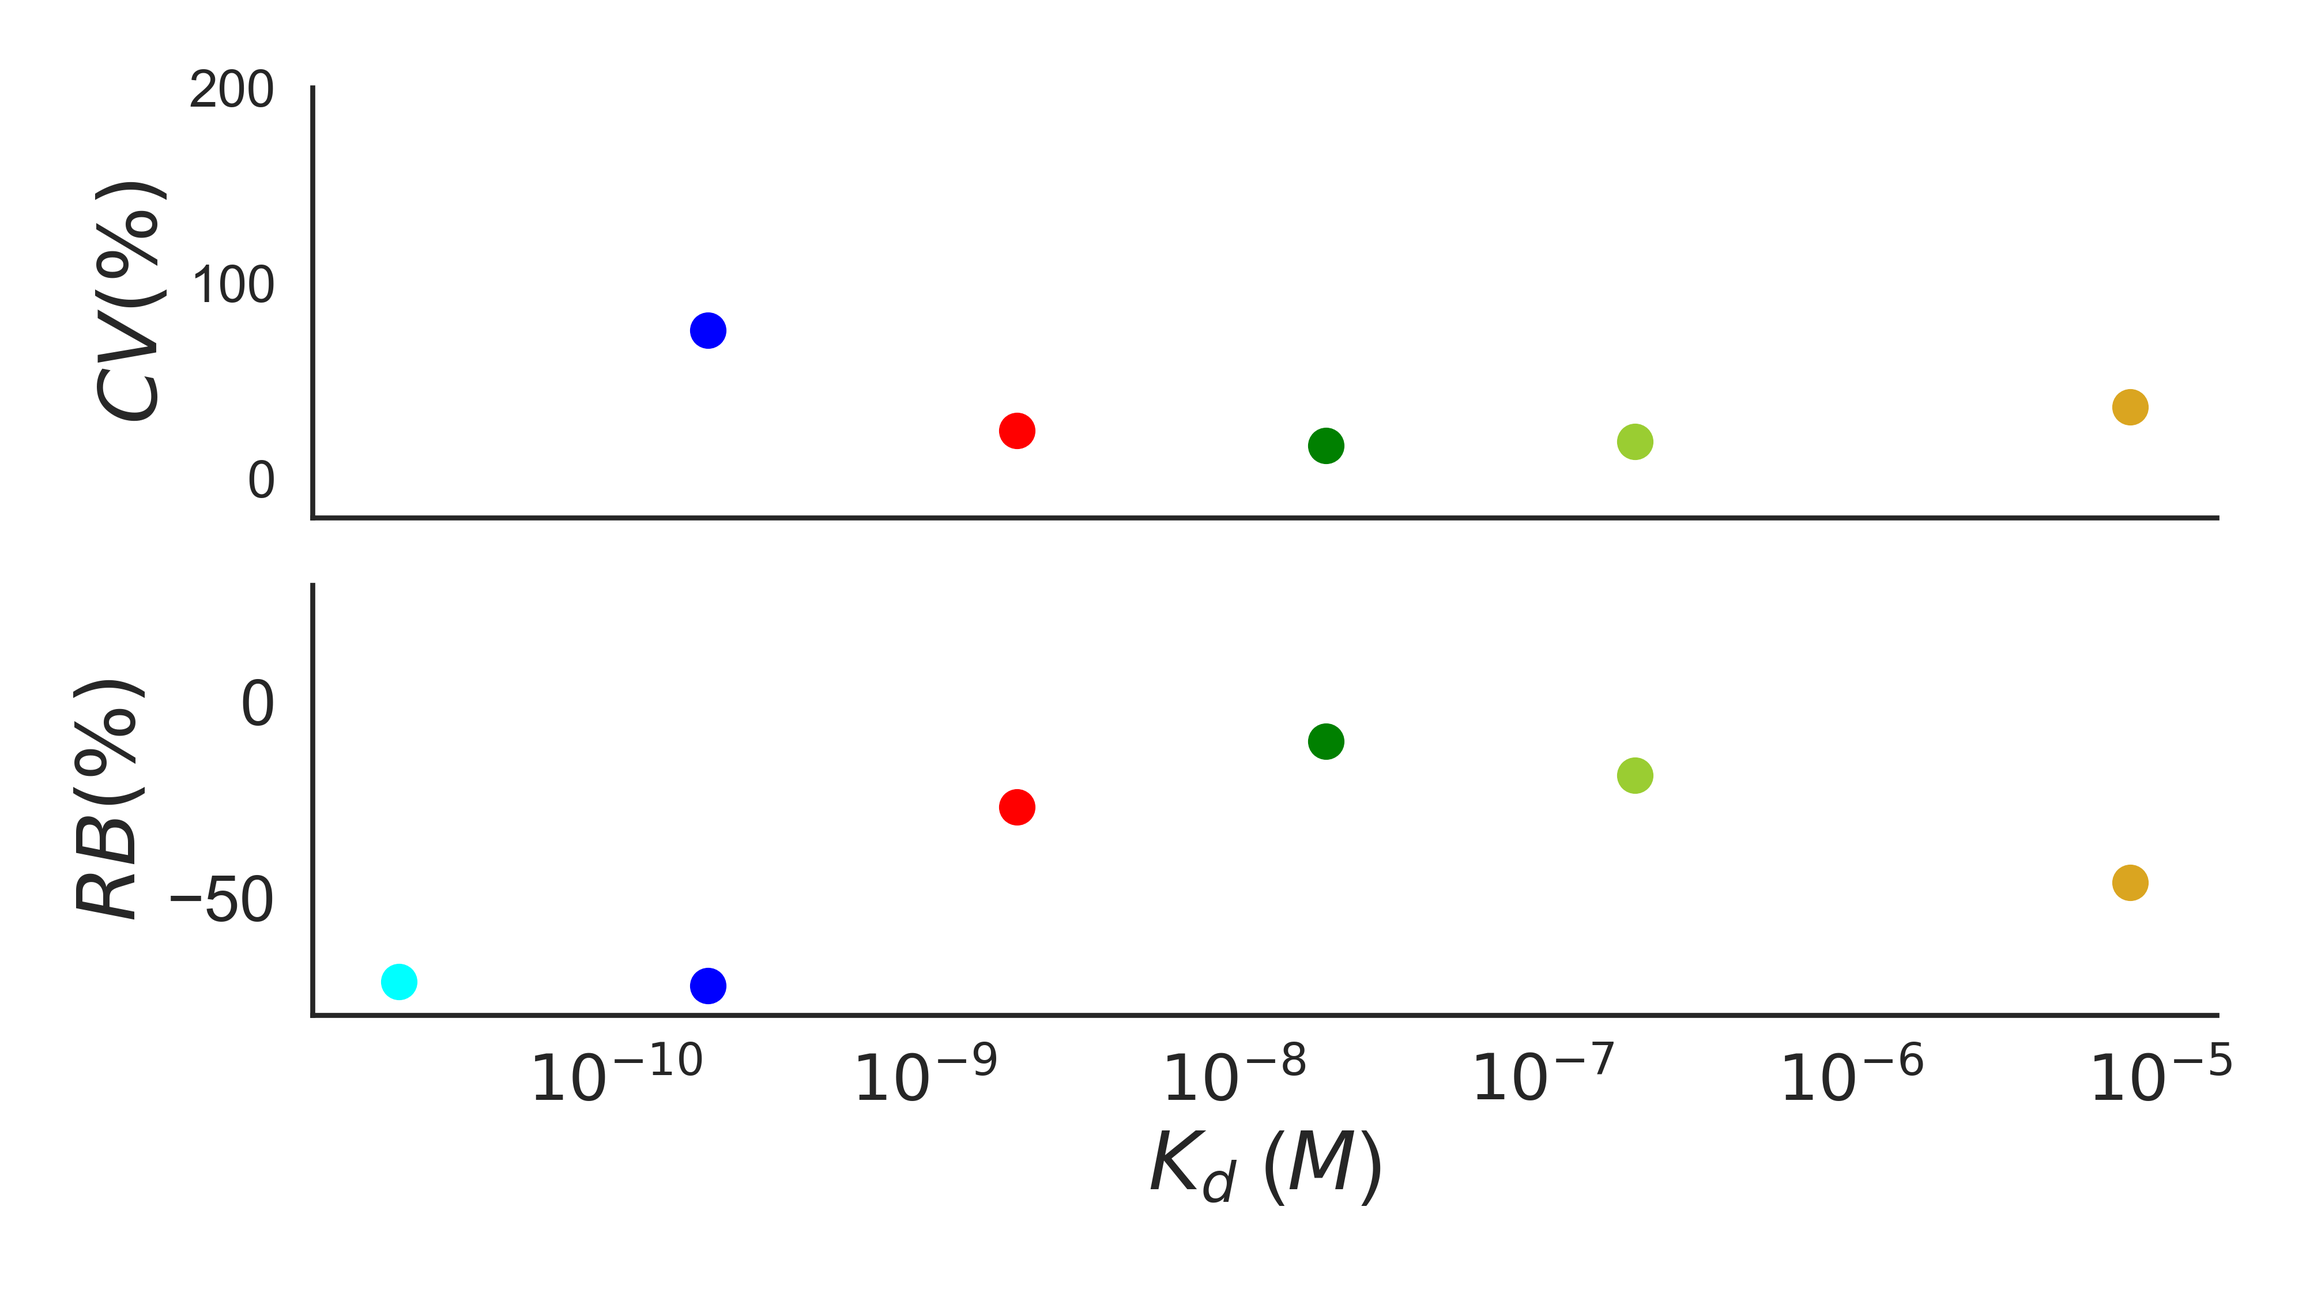
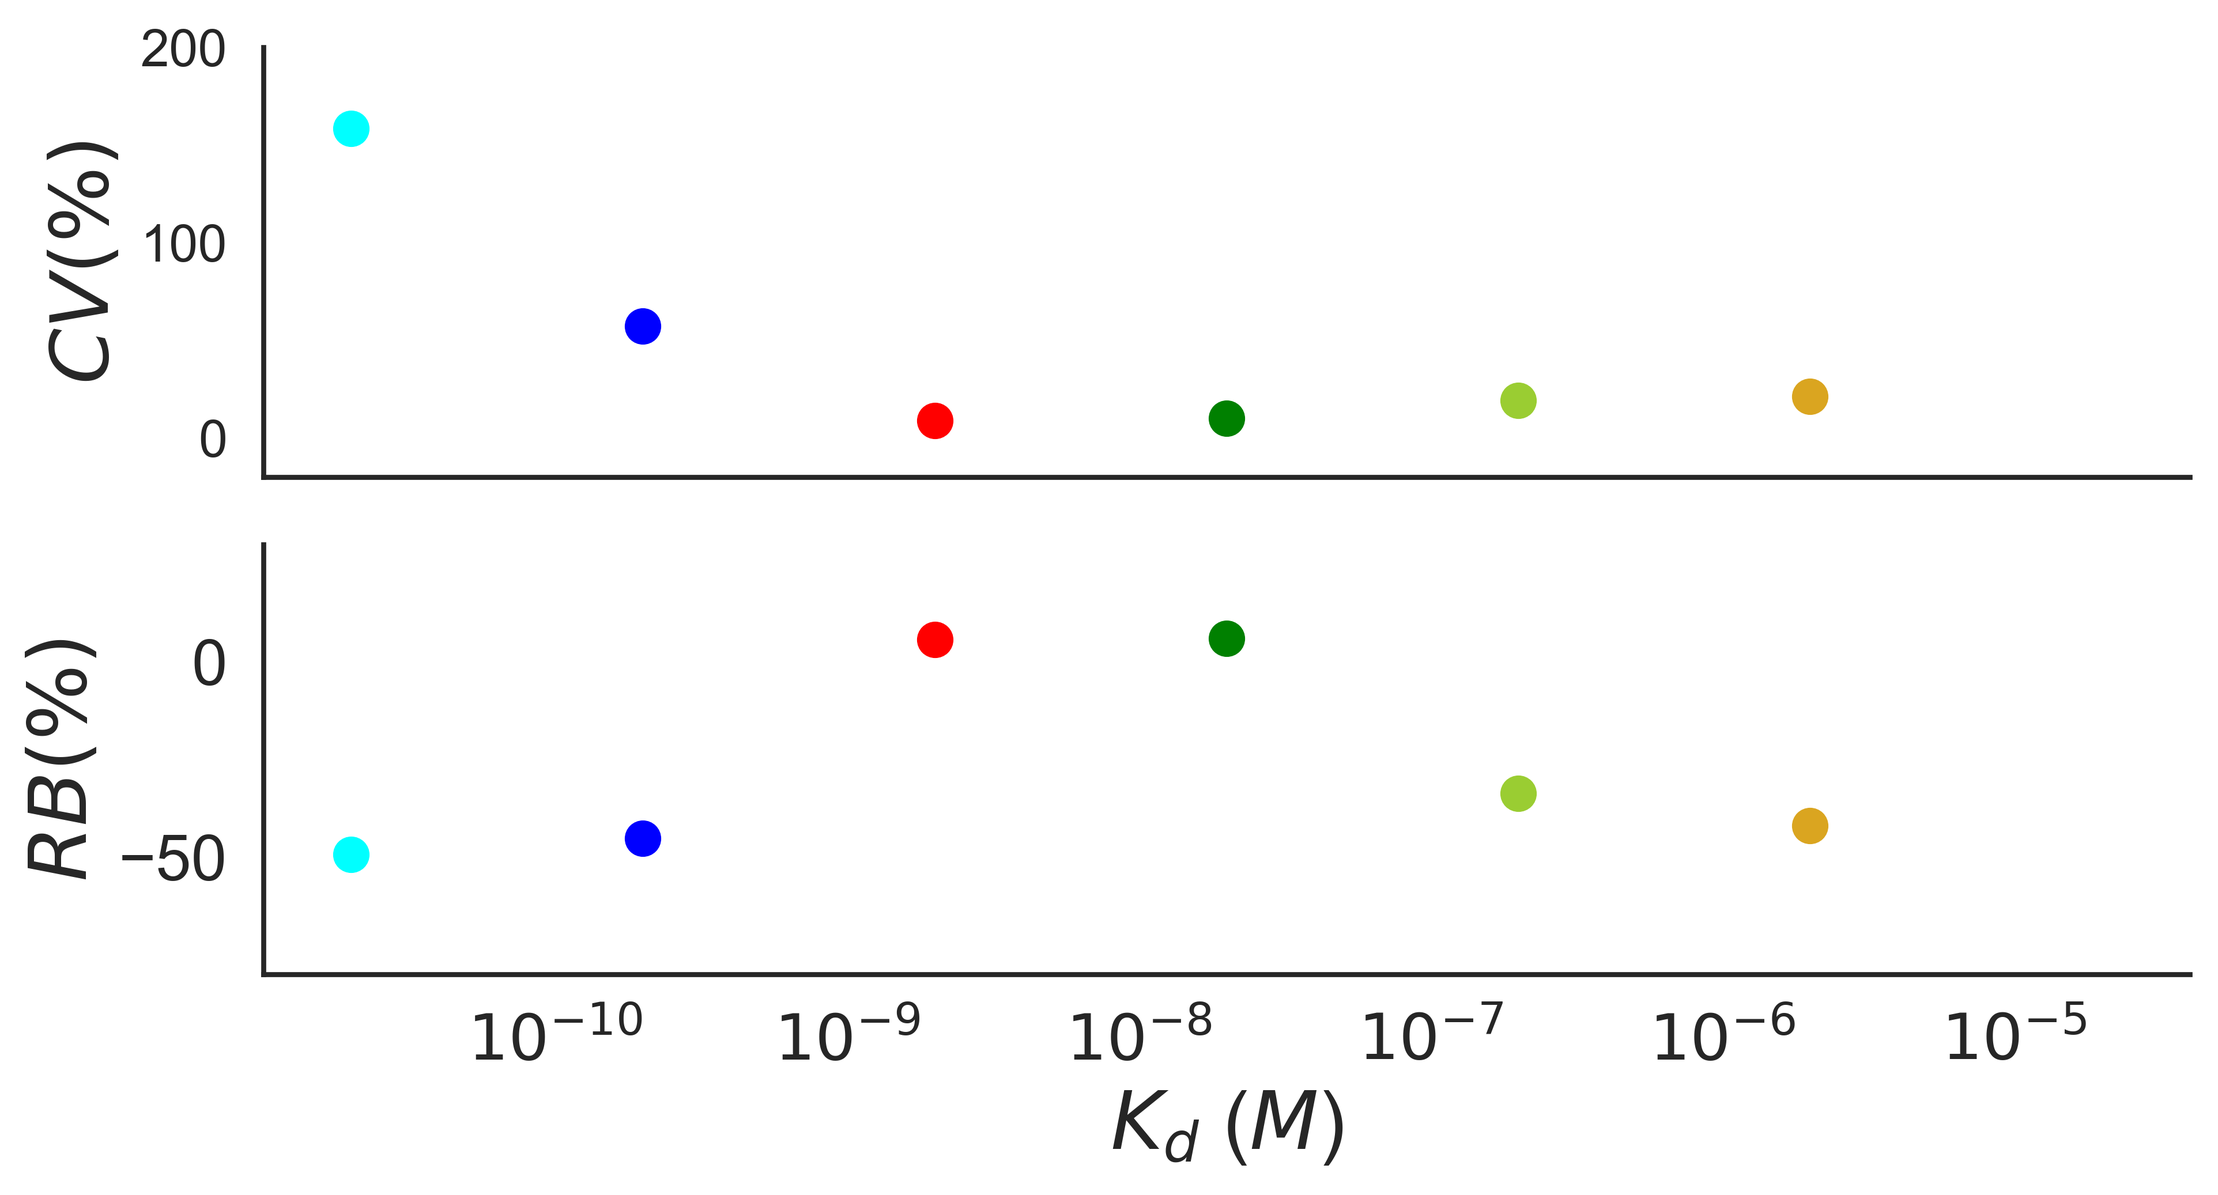
added updated simulated fluorescenc script and figures

diff --git a/figures/Figure2/generate_protein_concentration_simulation_fig.py b/figures/Figure2/generate_protein_concentration_simulation_fig.py
@@ -69,7 +69,6 @@ assay_volume = 100e-6 # assay volume, L
 dPstated = P_error * Ptot
 dLstated = L_error * Ltot
 
-
 from assaytools import pymcmodels
 pymc_model = pymcmodels.make_model(Ptot, dPstated, Ltot, dLstated,
     top_complex_fluorescence=F_PL_i,
@@ -79,104 +78,81 @@ pymc_model = pymcmodels.make_model(Ptot, dPstated, Ltot, dLstated,
     assay_volume=assay_volume, DG_prior='uniform')
 mcmc = pymcmodels.run_mcmc(pymc_model)
 
-# For this we're just going to define a range of Kd's, with some qualitative variable names.
+#Let's define a list of Kd's, which will include our original Kd (2e-9 M):
 # Note here that our protein concentration is: Ptot = 1e-9 # M
 
-Kd_high = 0.2e-9 # M
-Kd_really_high = 0.02e-9 # M
-Kd_low = 20e-9 # M
-Kd_really_low = 200e-9 # M
-Kd_very_low = 8000e-9 # M
+Kd_list = [
+           0.02e-9, # M
+           0.2e-9, # 
+           2e-9, # M
+           20e-9, # M
+           200e-9, # M
+           2000e-9, # M
+           20000e-9, # M
+          ]
 
-# Will need an F_PL_i for all of these
-[L_high, P_high, PL_high] = two_component_binding(Kd_high, Ptot, Ltot)
-[L_really_high, P_really_high, PL_really_high] = two_component_binding(Kd_really_high, Ptot, Ltot)
-[L_low, P_low, PL_low] = two_component_binding(Kd_low, Ptot, Ltot)
-[L_really_low, P_really_low, PL_really_low] = two_component_binding(Kd_really_low, Ptot, Ltot)
-[L_very_low, P_very_low, PL_very_low] = two_component_binding(Kd_very_low, Ptot, Ltot)
+Kd_label = []
 
+for my_Kd in Kd_list:
+    if (my_Kd < 1e-6):
+        Kd_label.append("%.3g nM" %(my_Kd/1e-9))
+    elif (my_Kd < 1e-3):
+        Kd_label.append("%.1f uM" %(my_Kd/1e-6))
 
-F_PL_high_i = F_background + ((1400/1e-9)*PL_high + sigma * np.random.randn(npoints)) + ((.4/1e-8)*L_high + sigma * np.random.randn(npoints))
-F_PL_really_high_i = F_background + ((1400/1e-9)*PL_really_high + sigma * np.random.randn(npoints)) + ((.4/1e-8)*L_really_high + sigma * np.random.randn(npoints))
-F_PL_low_i = F_background + ((1400/1e-9)*PL_low + sigma * np.random.randn(npoints)) + ((.4/1e-8)*L_low + sigma * np.random.randn(npoints))
-F_PL_really_low_i = F_background + ((1400/1e-9)*PL_really_low + sigma * np.random.randn(npoints)) + ((.4/1e-8)*L_really_low + sigma * np.random.randn(npoints))
-F_PL_very_low_i = F_background + ((1400/1e-9)*PL_very_low + sigma * np.random.randn(npoints)) + ((.4/1e-8)*L_very_low + sigma * np.random.randn(npoints))
+# Now let's model our results for all of these Kd's
 
-pymc_model_high = pymcmodels.make_model(Ptot, dPstated, Ltot, dLstated,
-    top_complex_fluorescence=F_PL_high_i,
-    top_ligand_fluorescence=F_L_i,
-    use_primary_inner_filter_correction=True,
-    use_secondary_inner_filter_correction=True,
-    assay_volume=assay_volume, DG_prior='uniform')
-mcmc_high = pymcmodels.run_mcmc(pymc_model_high)
+F_PL_i_list = []
+F_L_i_list = []
+pymc_model_list = []
+mcmc_list = []
 
-pymc_model_really_high = pymcmodels.make_model(Ptot, dPstated, Ltot, dLstated,
-    top_complex_fluorescence=F_PL_really_high_i,
-    top_ligand_fluorescence=F_L_i,
-    use_primary_inner_filter_correction=True,
-    use_secondary_inner_filter_correction=True,
-    assay_volume=assay_volume, DG_prior='uniform')
-mcmc_really_high = pymcmodels.run_mcmc(pymc_model_really_high)
+for i,Kd in enumerate(Kd_list):
+    [L, P, PL] = two_component_binding(Kd, Ptot, Ltot)
+    F_PL_i = F_background + ((1400/1e-9)*PL + sigma * np.random.randn(npoints)) + ((.4/1e-8)*L + sigma * np.random.randn(npoints))
+    F_L_i = F_background + (.4/1e-8)*Ltot + sigma * np.random.randn(npoints)
+    
+    pymc_model = pymcmodels.make_model(Ptot, dPstated, Ltot, dLstated,
+        top_complex_fluorescence=F_PL_i,
+        top_ligand_fluorescence=F_L_i,
+        use_primary_inner_filter_correction=True,
+        use_secondary_inner_filter_correction=True,
+        assay_volume=assay_volume, DG_prior='uniform')
+    
+    mcmc_list.append(pymcmodels.run_mcmc(pymc_model))
+    
+    F_PL_i_list.append(F_PL_i)
+    F_L_i_list.append(F_L_i)
+    pymc_model_list.append(pymc_model)
+    
+# Now let's plot our results
 
-pymc_model_low = pymcmodels.make_model(Ptot, dPstated, Ltot, dLstated,
-    top_complex_fluorescence=F_PL_low_i,
-    top_ligand_fluorescence=F_L_i,
-    use_primary_inner_filter_correction=True,
-    use_secondary_inner_filter_correction=True,
-    assay_volume=assay_volume, DG_prior='uniform')
-mcmc_low = pymcmodels.run_mcmc(pymc_model_low)
+# We need to define a few things to use in the plots
 
-pymc_model_really_low = pymcmodels.make_model(Ptot, dPstated, Ltot, dLstated,
-    top_complex_fluorescence=F_PL_really_low_i,
-    top_ligand_fluorescence=F_L_i,
-    use_primary_inner_filter_correction=True,
-    use_secondary_inner_filter_correction=True,
-    assay_volume=assay_volume, DG_prior='uniform')
-mcmc_really_low = pymcmodels.run_mcmc(pymc_model_really_low)
+property_name = 'top_complex_fluorescence'
 
-pymc_model_very_low = pymcmodels.make_model(Ptot, dPstated, Ltot, dLstated,
-    top_complex_fluorescence=F_PL_very_low_i,
-    top_ligand_fluorescence=F_L_i,
-    use_primary_inner_filter_correction=True,
-    use_secondary_inner_filter_correction=True,
-    assay_volume=assay_volume, DG_prior='uniform')
-mcmc_very_low = pymcmodels.run_mcmc(pymc_model_very_low)
+complex_list = []
 
-#Now let's plot our results:
+for pymc_model in pymc_model_list:
+    complex_list.append(getattr(pymc_model, property_name))
+
+property_name = 'top_ligand_fluorescence'
+ligand = getattr(pymc_model_list[2], property_name)
+
+pale_colors = ['powderblue','cornflowerblue','lightcoral','darkseagreen','palegreen','khaki','lightyellow']
+dark_colors = ['cyan','blue','red','green','yellowgreen','goldenrod','yellow']
+
+# Now we'll plot our simulated fluorescence
 
 fig, ax = plt.subplots(figsize=(8,4))
 
-property_name = 'top_complex_fluorescence'
-complex = getattr(pymc_model, property_name)
-complex_high = getattr(pymc_model_high, property_name)
-complex_really_high = getattr(pymc_model_really_high, property_name)
-complex_low = getattr(pymc_model_low, property_name)
-complex_really_low = getattr(pymc_model_really_low, property_name)
-complex_very_low = getattr(pymc_model_very_low, property_name)
-property_name = 'top_ligand_fluorescence'
-ligand = getattr(pymc_model, property_name)
-
-for top_complex_fluorescence_model in mcmc.top_complex_fluorescence_model.trace()[::10]:
-    plt.semilogx(Ltot, top_complex_fluorescence_model, marker='.',color='lightcoral', alpha=0.2, hold=True)
-for top_complex_fluorescence_model in mcmc_high.top_complex_fluorescence_model.trace()[::10]:
-    plt.semilogx(Ltot, top_complex_fluorescence_model, marker='.',color='cornflowerblue', alpha=0.2, hold=True)
-for top_complex_fluorescence_model in mcmc_really_high.top_complex_fluorescence_model.trace()[::10]:
-    plt.semilogx(Ltot, top_complex_fluorescence_model, marker='.',color='powderblue', alpha=0.2, hold=True)
-for top_complex_fluorescence_model in mcmc_low.top_complex_fluorescence_model.trace()[::10]:
-    plt.semilogx(Ltot, top_complex_fluorescence_model, marker='.',color='darkseagreen', alpha=0.2, hold=True)
-for top_complex_fluorescence_model in mcmc_really_low.top_complex_fluorescence_model.trace()[::10]:
-    plt.semilogx(Ltot, top_complex_fluorescence_model, marker='.',color='palegreen', alpha=0.2, hold=True)
 for top_ligand_fluorescence_model in mcmc.top_ligand_fluorescence_model.trace()[::10]:
     plt.semilogx(Ltot, top_ligand_fluorescence_model, marker='.',color='silver', alpha=0.2, hold=True)
-for top_complex_fluorescence_model in mcmc_very_low.top_complex_fluorescence_model.trace()[::10]:
-    plt.semilogx(Ltot, top_complex_fluorescence_model, marker='.',color='khaki', alpha=0.2, hold=True)    
+for i,this_mcmc in enumerate(mcmc_list):
+    for top_complex_fluorescence_model in this_mcmc.top_complex_fluorescence_model.trace()[::10]:
+        plt.semilogx(Ltot, top_complex_fluorescence_model, marker='.',color=pale_colors[i], alpha=0.2, hold=True)
 
-plt.semilogx(Ltot, complex_really_high.value, color='cyan',marker='o',linestyle='None',label='0.02 nM', hold=True)
-plt.semilogx(Ltot, complex_high.value, 'bo',label='0.2 nM', hold=True)
-plt.semilogx(Ltot, complex.value, 'ro',label='2 nM', hold=True)
-plt.semilogx(Ltot, complex_low.value, color='green',marker='o',linestyle='None',label='20 nM', hold=True)
-plt.semilogx(Ltot, complex_really_low.value, color='yellowgreen',marker='o',linestyle='None',label='200 nM', hold=True)
-plt.semilogx(Ltot, complex_very_low.value, color='goldenrod',marker='o',linestyle='None',label='8 $\mu$M', hold=True)
+for i,complex in enumerate(complex_list):
+    plt.semilogx(Ltot, complex.value, color=dark_colors[i], marker = 'o', linestyle= 'None', label='%s'%Kd_label[i], hold=True)
 plt.semilogx(Ltot, ligand.value, 'ko',label='ligand', hold=True)
 
 ax.spines['top'].set_visible(False)
@@ -185,118 +161,106 @@ ax.spines['right'].set_visible(False)
 plt.xlabel('$[L]_T$ (M)',fontsize=16);
 plt.yticks([])
 plt.xticks(fontsize=16)
-plt.xlim((1e-11,5e-5))
+plt.xlim((2e-11,5e-5))
 plt.ylabel('Fluorescence',fontsize=20);
-plt.legend(fontsize=14);
+
+legend=plt.legend(fontsize=16,title=r'Kd',loc='center left', bbox_to_anchor=(1, 0.5));
+plt.setp(legend.get_title(),fontsize='xx-large')
+plt.setp(legend.get_title(),weight='bold')
 
 plt.tight_layout()
 
-plt.savefig('simulated_fluorescence_P_1nM.png', dpi=500)
-plt.savefig('simulated_fluorescence_P_1nM.pdf')
+plt.savefig('simulated_fluorescence_P_1nM.png', dpi=500, bbox_inches='tight')
+plt.savefig('simulated_fluorescence_P_1nM.pdf', bbox_inches='tight')
+
+plt.close()
+
+# Now we'll plot our deltaG histograms
 
 fig, ax = plt.subplots(figsize=(8,4))
 
 binBoundaries = np.linspace(-33,-10,70)
 
-plt.hist(mcmc_really_high.DeltaG.trace(),color='cyan',bins=binBoundaries, hold=True,edgecolor='white')
-plt.axvline(x=np.log(Kd_really_high),color='cyan',label='0.02 nM', hold=True)
-plt.hist(mcmc_high.DeltaG.trace(),color='blue',bins=binBoundaries, hold=True,edgecolor='white')
-plt.axvline(x=np.log(Kd_high),color='blue',label='0.2 nM', hold=True)
-plt.hist(mcmc.DeltaG.trace(),color='red',bins=binBoundaries, hold=True,edgecolor='white')
-plt.axvline(x=np.log(Kd),color='red',label='2 nM', hold=True)
-plt.hist(mcmc_low.DeltaG.trace(),bins=binBoundaries,color='green', hold=True,edgecolor='white')
-plt.axvline(x=np.log(Kd_low),color='green',label='20 nM', hold=True)
-plt.hist(mcmc_really_low.DeltaG.trace(),bins=binBoundaries,color='yellowgreen', hold=True,edgecolor='white')
-plt.axvline(x=np.log(Kd_really_low),color='yellowgreen',label='200 nM', hold=True)
-plt.hist(mcmc_very_low.DeltaG.trace(),bins=binBoundaries,color='goldenrod', alpha=0.8, hold=True,edgecolor='white')
-plt.axvline(x=np.log(Kd_very_low),color='goldenrod', alpha=0.8,label='8 $\mu$M', hold=True)
-plt.axvline(x=np.log(Ptot[0]),color='0.7',linestyle='--',label='log(protein conc)', hold=True)
+for i,this_mcmc in enumerate(mcmc_list):
+    plt.hist(this_mcmc.DeltaG.trace(),color=dark_colors[i],bins=binBoundaries, hold=True,edgecolor='white')
+    plt.axvline(x=np.log(Kd_list[i]),color=dark_colors[i],label='%s'%Kd_label[i], hold=True)
+plt.axvline(x=np.log(Ptot[0]),color='0.7',linestyle='--',label='[P] = 1 nM', hold=True)
 
 ax.spines['top'].set_visible(False)
 ax.spines['right'].set_visible(False)
 
 plt.yticks([])
 plt.xticks(fontsize=16)
-plt.xlim((-33,-14))
+plt.xlim((-27,-9))
 plt.xlabel('$\Delta G$ ($k_B T$)',fontsize=16);
 plt.ylabel('$P(\Delta G)$',fontsize=20);
-plt.legend(fontsize=13);
+
+legend=plt.legend(fontsize=16,title=r'Kd',loc='center left', bbox_to_anchor=(1, 0.5));
+plt.setp(legend.get_title(),fontsize='xx-large')
+plt.setp(legend.get_title(),weight='bold')
 
 plt.tight_layout()
 
-plt.savefig('simulated_fluorescence_delG_result.png', dpi=500)
-plt.savefig('simulated_fluorescence_delG_result.pdf')
+plt.savefig('simulated_fluorescence_delG_result.png', dpi=500, bbox_inches='tight')
+plt.savefig('simulated_fluorescence_delG_result.pdf', bbox_inches='tight')
+
+plt.close()
+
+# Now we'll plot our Kd histograms
 
 fig, ax = plt.subplots(figsize=(8,4))
 
-kd_binBoundaries = np.exp(np.arange(-33,-10,0.5))
+kd_binBoundaries = np.exp(np.arange(-33,0,0.5))
 
-plt.hist(np.exp(mcmc_really_high.DeltaG.trace()),color='cyan',bins=kd_binBoundaries, edgecolor='white')
-plt.axvline(x=Kd_really_high,color='cyan',label='0.02 nM')
-plt.hist(np.exp(mcmc_high.DeltaG.trace()),color='blue',bins=kd_binBoundaries, hold=True,edgecolor='white')
-plt.axvline(x=Kd_high,color='blue',label='0.2 nM', hold=True)
-plt.hist(np.exp(mcmc.DeltaG.trace()),color='red',bins=kd_binBoundaries, hold=True,edgecolor='white')
-plt.axvline(x=Kd,color='red',label='2 nM', hold=True)
-plt.hist(np.exp(mcmc_low.DeltaG.trace()),bins=kd_binBoundaries,color='green', hold=True,edgecolor='white')
-plt.axvline(x=Kd_low,color='green',label='20 nM', hold=True)
-plt.hist(np.exp(mcmc_really_low.DeltaG.trace()),bins=kd_binBoundaries,color='yellowgreen', hold=True,edgecolor='white')
-plt.axvline(x=Kd_really_low,color='yellowgreen',label='200 nM', hold=True)
-plt.hist(np.exp(mcmc_very_low.DeltaG.trace()),bins=kd_binBoundaries,color='goldenrod', alpha=0.8, hold=True,edgecolor='white')
-plt.axvline(x=Kd_very_low,color='goldenrod', alpha=0.8,label='8 $\mu$M', hold=True)
+for i,this_mcmc in enumerate(mcmc_list):
+    plt.hist(np.exp(this_mcmc.DeltaG.trace()),color=dark_colors[i],bins=kd_binBoundaries, hold=True,edgecolor='white')
+    plt.axvline(x=Kd_list[i],color=dark_colors[i],label='%s'%Kd_label[i], hold=True)
 plt.axvline(x=Ptot[0],color='0.7',linestyle='--',label='[P] = 1 nM', hold=True)
 
 ax.spines['top'].set_visible(False)
 ax.spines['right'].set_visible(False)
 
 plt.xscale('log')
-plt.xlim((1e-13,1e-5))
+plt.xlim((1e-12,1e-4))
 plt.yticks([])
 plt.xticks(fontsize=16)
 plt.xlabel('$K_{d}$ ($M$)',fontsize=16);
 plt.ylabel('$P(K_{d})$',fontsize=20);
-plt.legend(fontsize=16);
+
+legend=plt.legend(fontsize=16,title=r'Kd',loc='center left', bbox_to_anchor=(1, 0.5));
+plt.setp(legend.get_title(),fontsize='xx-large')
+plt.setp(legend.get_title(),weight='bold')
 
 plt.tight_layout()
 
-plt.savefig('simulated_fluorescence_Kd_result.png', dpi=500)
-plt.savefig('simulated_fluorescence_Kd_result.pdf')
+plt.savefig('simulated_fluorescence_Kd_result.png', dpi=500, bbox_inches='tight')
+plt.savefig('simulated_fluorescence_Kd_result.pdf', bbox_inches='tight')
+
+plt.close()
 
 #Now let's calculate the CV and relative bias of these results
 
-CV = np.std(np.exp(mcmc.DeltaG.trace()))/np.mean(np.exp(mcmc.DeltaG.trace())) * 100
-CV_high = np.std(np.exp(mcmc_high.DeltaG.trace()))/np.mean(np.exp(mcmc_high.DeltaG.trace())) * 100
-CV_really_high = np.std(np.exp(mcmc_really_high.DeltaG.trace()))/np.mean(np.exp(mcmc_really_high.DeltaG.trace())) * 100
-CV_low = np.std(np.exp(mcmc_low.DeltaG.trace()))/np.mean(np.exp(mcmc_low.DeltaG.trace())) * 100
-CV_really_low = np.std(np.exp(mcmc_really_low.DeltaG.trace()))/np.mean(np.exp(mcmc_really_low.DeltaG.trace())) * 100
-CV_very_low = np.std(np.exp(mcmc_very_low.DeltaG.trace()))/np.mean(np.exp(mcmc_very_low.DeltaG.trace())) * 100
+CV_list = []
+bias_list = []
 
-bias = (np.mean(np.exp(mcmc.DeltaG.trace())) - Kd) / Kd
-bias_high = (np.mean(np.exp(mcmc_high.DeltaG.trace())) - Kd_high ) / Kd_high
-bias_really_high = (np.mean(np.exp(mcmc_really_high.DeltaG.trace())) - Kd_really_high ) / Kd_really_high
-bias_low = (np.mean(np.exp(mcmc_low.DeltaG.trace())) - Kd_low ) / Kd_low
-bias_really_low = (np.mean(np.exp(mcmc_really_low.DeltaG.trace())) - Kd_really_low ) / Kd_really_low
-bias_very_low = (np.mean(np.exp(mcmc_very_low.DeltaG.trace())) - Kd_very_low ) / Kd_very_low
+for i,this_mcmc in enumerate(mcmc_list):
+    CV_list.append(np.std(np.exp(this_mcmc.DeltaG.trace()))/np.mean(np.exp(this_mcmc.DeltaG.trace())) * 100)
+    bias_list.append((np.mean(np.exp(this_mcmc.DeltaG.trace())) - Kd_list[i]) / Kd_list[i])
 
 f, (ax1, ax2) = plt.subplots(2, sharex=True,figsize=(8,4.5))
 
-ax1.semilogx(Kd_really_high,CV_really_high,color='cyan',marker='o')
-ax1.semilogx(Kd_high,CV_high,'bo')
-ax1.semilogx(Kd,CV,'ro')
-ax1.semilogx(Kd_low,CV_low,'go')
-ax1.semilogx(Kd_really_low,CV_really_low,color='yellowgreen',marker='o')
-ax1.semilogx(Kd_very_low,CV_very_low,color='goldenrod',marker='o')
+for i,CV in enumerate(CV_list):
+    ax1.semilogx(Kd_list[i], CV, dark_colors[i], marker = 'o', linestyle='None')
+
 ax1.set_ylabel('$CV (\%)$',fontsize=20);
 ax1.set_ylim((-20,200));
 
 ax1.spines['top'].set_visible(False)
 ax1.spines['right'].set_visible(False)
 
-ax2.semilogx(Kd_really_high,bias_really_high*100,color='cyan',marker='o')
-ax2.semilogx(Kd_high,bias_high*100,'bo')
-ax2.semilogx(Kd,bias*100,'ro')
-ax2.semilogx(Kd_low,bias_low*100,'go')
-ax2.semilogx(Kd_really_low,bias_really_low*100,color='yellowgreen',marker='o')
-ax2.semilogx(Kd_very_low,bias_very_low*100,color='goldenrod',marker='o')
+for i,bias in enumerate(bias_list):
+    ax2.semilogx(Kd_list[i], bias*100, dark_colors[i], marker = 'o', linestyle='None')
+
 ax2.set_ylabel('$RB (\%)$',fontsize=20);
 ax2.set_ylim((-80,30));
 
@@ -310,7 +274,9 @@ plt.yticks(fontsize=16);
 
 plt.tight_layout()
 
-plt.savefig('simulated_fluorescence_CV_bias.png', dpi=500)
-plt.savefig('simulated_fluorescence_CV_bias.pdf')
+plt.savefig('simulated_fluorescence_CV_bias.png', dpi=500, bbox_inches='tight')
+plt.savefig('simulated_fluorescence_CV_bias.pdf', bbox_inches='tight')
+
+plt.close()
 
 
